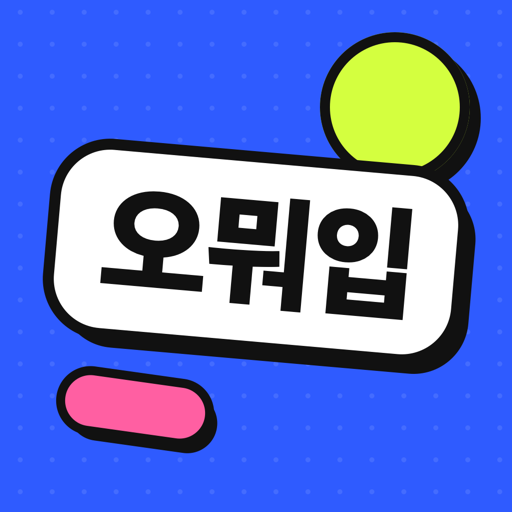
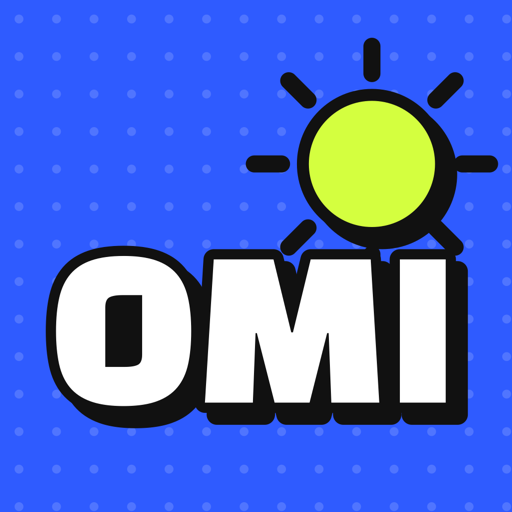
OMI: 이름을 OMI - 오늘 뭐 입지로, 새 앱 아이콘

diff --git a/omi/privacy.html b/omi/privacy.html
@@ -3,7 +3,7 @@
 <head>
 <meta charset="utf-8">
 <meta name="viewport" content="width=device-width, initial-scale=1">
-<title>개인정보처리방침 · 오뭐입</title>
+<title>개인정보처리방침 · OMI</title>
 <style>
 /* 읽기 쉬운 단순한 페이지. https://kongrae.github.io/omi/privacy.html 에 게시 (저장소 kongrae/kongrae.github.io, 폴더 omi/). 원본: omi 저장소 site/omi/. */
 :root { --bg: #F3F5FF; --panel: #FFFFFF; --text: #111111; --muted: #5C5C5C; --accent: #2F5BFF; --line: #E3E6F2; color-scheme: light; }
@@ -24,11 +24,11 @@ th { color: var(--muted); font-weight: 500; }
 <body>
 <main>
   <h1>개인정보처리방침</h1>
-  <p class="meta">오뭐입 - 오늘 뭐 입지(iOS 앱) · 시행일 2026년 11월 12일</p>
+  <p class="meta">OMI - 오늘 뭐 입지(iOS 앱) · 시행일 2026년 11월 12일</p>
 
   <h2>요약</h2>
   <div class="box">
-    <p>오뭐입은 내가 찍어 넣은 옷으로 그날 날씨와 상황에 맞는 코디를 골라 주는 앱입니다. 이를 위해 <b>옷 사진과 옷 정보, 취향, 코디 기록</b>을 서버(Supabase 서울 리전)에 저장하고, 옷 정보를 읽거나 코디를 고를 때 <b>AI(Anthropic Claude)</b>에 필요한 내용만 보냅니다.</p>
+    <p>OMI는 내가 찍어 넣은 옷으로 그날 날씨와 상황에 맞는 코디를 골라 주는 앱입니다. 이를 위해 <b>옷 사진과 옷 정보, 취향, 코디 기록</b>을 서버(Supabase 서울 리전)에 저장하고, 옷 정보를 읽거나 코디를 고를 때 <b>AI(Anthropic Claude)</b>에 필요한 내용만 보냅니다.</p>
     <p>정확한 위치는 저장하지 않으며 AI에도 보내지 않습니다. 광고와 분석 도구, 이용자 추적이 없습니다. 나 탭의 <b>'계정과 데이터 지우기'</b>로 언제든 모두 지울 수 있습니다.</p>
   </div>
 

diff --git a/omi/index.html b/omi/index.html
@@ -3,7 +3,7 @@
 <head>
 <meta charset="utf-8">
 <meta name="viewport" content="width=device-width, initial-scale=1">
-<title>오뭐입 · 오늘 뭐 입지</title>
+<title>OMI · 오늘 뭐 입지</title>
 <style>
 /* 지원 페이지. https://kongrae.github.io/omi/ 에 게시 (저장소 kongrae/kongrae.github.io, 폴더 omi/). 원본: omi 저장소 site/omi/. */
 :root { --bg: #2F5BFF; --panel: #FFFFFF; --text: #111111; --on-bg: #FFFFFF; --lime: #D4FF3F; --muted: #5C5C5C; color-scheme: light; }
@@ -23,8 +23,8 @@ a { color: var(--lime); font-weight: 700; }
 </head>
 <body>
 <main>
-  <span class="logo">오뭐입</span>
-  <img class="icon" src="icon.png" alt="오뭐입 앱 아이콘">
+  <span class="logo">OMI</span>
+  <img class="icon" src="icon.png" alt="OMI 앱 아이콘">
   <h1>아침마다<br><span>뭐 입지?</span></h1>
   <p>내가 찍어 넣은 옷으로, 오늘 날씨와 상황에 맞는 코디를 골라 드려요.</p>
 
